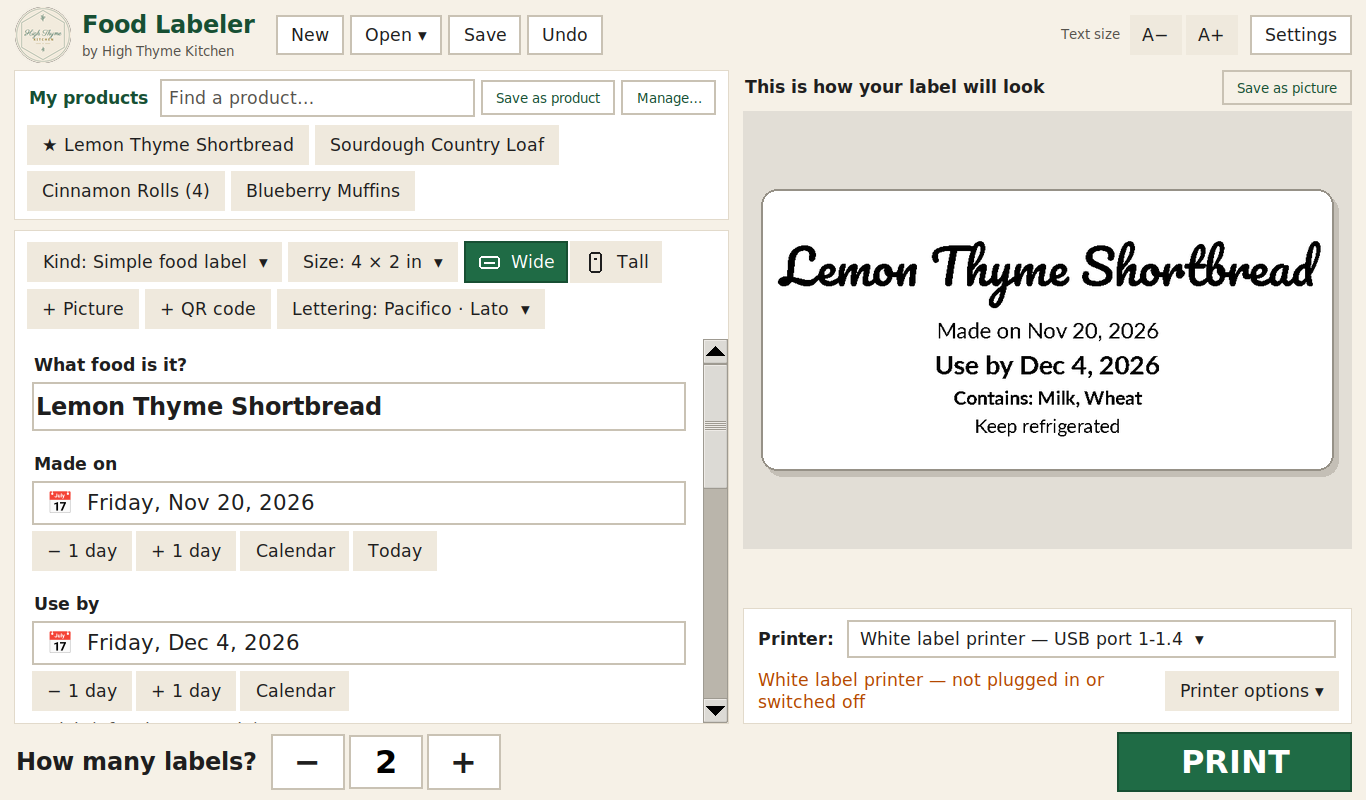
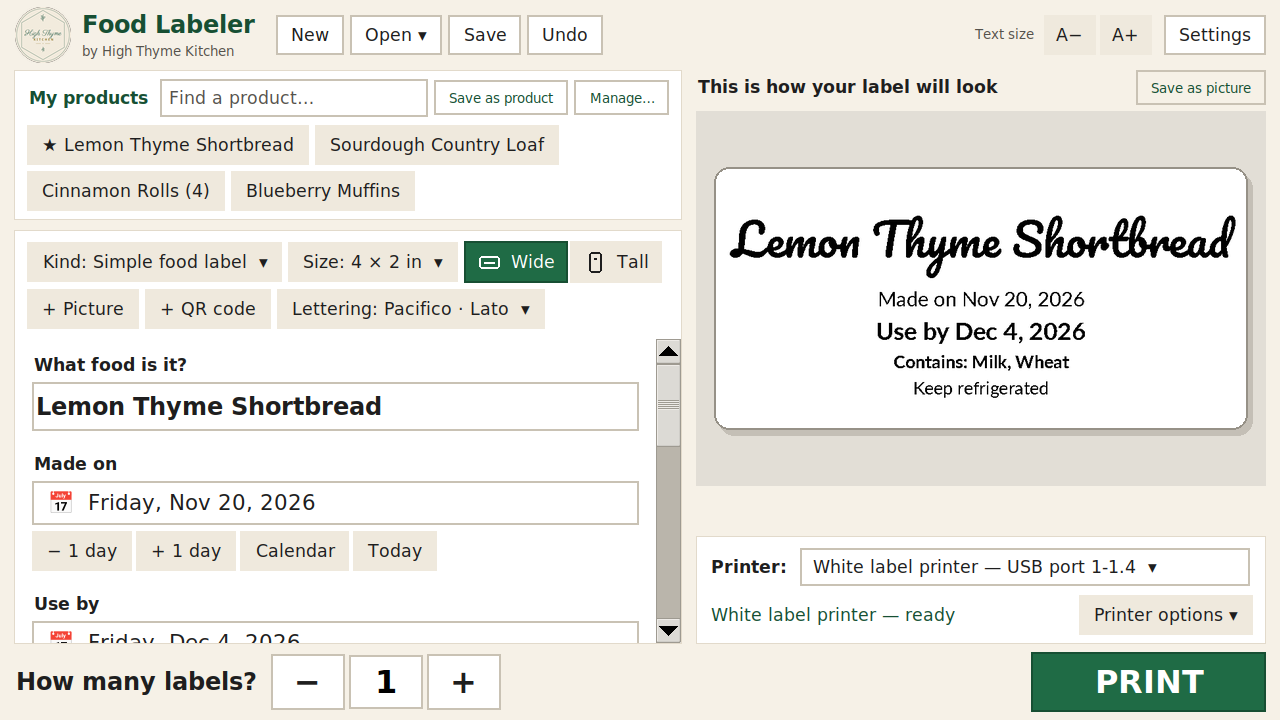
Docs and screenshots: match the current app
Regenerate every screenshot the docs and website use at 1280 x 720 with
the Normal text size, and add three: a tall label, the Manage products
window and Add a network printer. Fix wording that still described the
old main window, point to Printer options where printers are concerned,
and update the website's picture sizes and alt text.

The screenshot tool now defaults to 1280 x 720, shows its pretend printers
as ready and never reaches the internet from Get more fonts.

diff --git a/site/index.html b/site/index.html
@@ -15,9 +15,9 @@
 <meta property="og:description" content="A free program for home bakers. Type your food, press PRINT, and out comes a neat label with your state's cottage food wording, ingredients and allergens.">
 <meta property="og:url" content="https://lilfade.github.io/food-labeler/">
 <meta property="og:image" content="https://lilfade.github.io/food-labeler/img/screenshot.png">
-<meta property="og:image:width" content="1366">
-<meta property="og:image:height" content="800">
-<meta property="og:image:alt" content="Food Labeler's main window: type on the left, see the sticker on the right, and a big green PRINT button.">
+<meta property="og:image:width" content="1280">
+<meta property="og:image:height" content="720">
+<meta property="og:image:alt" content="Food Labeler's main window: your products and the form on the left, the sticker on the right, and a big green PRINT button.">
 <meta name="twitter:card" content="summary_large_image">
 <link rel="icon" type="image/png" sizes="32x32" href="img/icon-32.png">
 <link rel="apple-touch-icon" href="img/icon.png">
@@ -52,8 +52,8 @@
       <li>Open source (MIT)</li>
     </ul>
     <figure class="shot">
-      <img src="img/screenshot.png" width="1366" height="800"
-           alt="Food Labeler's main window. On the left you type the name of the food, Chicken Noodle Soup, and the dates. On the right is a picture of the sticker. At the bottom is a big green PRINT button.">
+      <img src="img/screenshot.png" width="1280" height="720"
+           alt="Food Labeler's main window. At the top left are buttons for your saved products. Below them you type the name of the food, Chicken Noodle Soup, and the dates. On the right is a picture of the sticker and your printer. At the bottom is a big green PRINT button.">
       <figcaption>Type on the left. See your sticker on the right. Press <strong>PRINT</strong>.</figcaption>
     </figure>
     <figure class="sticker-fig">
@@ -156,7 +156,7 @@
         never overwrite your changes.</li>
     </ul>
     <figure class="shot">
-      <img src="img/screenshot-cottage.png" width="1366" height="800" loading="lazy"
+      <img src="img/screenshot-cottage.png" width="1280" height="720" loading="lazy"
            alt="A cottage food label being made for a Nebraska bakery, with the label check at the top of the form and the finished sticker on the right.">
       <figcaption>A cottage food label for a Nebraska bakery.</figcaption>
     </figure>
@@ -181,12 +181,12 @@
     </ul>
     <div class="pair">
       <figure class="shot">
-        <img src="img/screenshot-fancy-name.png" width="1366" height="800" loading="lazy"
+        <img src="img/screenshot-fancy-name.png" width="1280" height="720" loading="lazy"
              alt="A label with the name of the food in fancy, flowing Pacifico lettering.">
         <figcaption>Fancy lettering for the name.</figcaption>
       </figure>
       <figure class="shot">
-        <img src="img/screenshot-picture-qr.png" width="1366" height="800" loading="lazy"
+        <img src="img/screenshot-picture-qr.png" width="1280" height="720" loading="lazy"
              alt="A label with a black and white logo on one side and a QR code on the other.">
         <figcaption>A logo and a QR code.</figcaption>
       </figure>
@@ -242,10 +242,10 @@
     <p>When you put in a new roll, Food Labeler walks you through setting it up in three
       plain steps, so the printing lands on the labels and not across the gaps.</p>
     <h3>A printer on your network</h3>
-    <p>Type its address in <strong>Add a network printer</strong> (in <strong>My printers</strong>).
+    <p>Type its address in <strong>Add a network printer</strong> (under <strong>Printer options</strong>).
       <strong>Test the connection</strong> checks it answers without printing anything.</p>
     <h3>Printer not in the list?</h3>
-    <p>Press <strong>My printer isn't in the list</strong>, then <strong>Ask for help on
+    <p>Under <strong>Printer options</strong>, press <strong>My printer isn't in the list</strong>, then <strong>Ask for help on
       GitHub</strong>. Food Labeler makes a short report about your computer and printer
       (never what is on your labels), copies it and opens a help form. Paste the report into
       the box, and we'll try to help.</p>

diff --git a/tools/screenshot.py b/tools/screenshot.py
@@ -6,12 +6,13 @@ so run it on a desktop you are not using at that moment:
 
 Uses a temporary data folder and FOOD_LABELER_DRY_RUN, so nothing is printed
 and nothing of yours is touched. Printer discovery is replaced by two pretend
-printers and "Test the connection" never connects.
+printers (shown as ready), and "Test the connection" and "Get more fonts"
+never connect.
 
 Settings, from the environment:
 
     SHOT_SCALE=0.8        text size (0.7 Small, 0.8 Normal, 1.0 Large, 1.2 Extra large)
-    SHOT_SIZE=1280x720    main window size (default 1366x800, the docs' size)
+    SHOT_SIZE=1366x800    main window size (default 1280x720, the docs' size)
     SHOT_SCREEN=1280x720  pretend the screen is this big (dialogs size themselves to it)
     SHOT_ALL=1            also walk through every other window and flow
     SHOT_STEPS=a,b        only these steps (names as below)
@@ -41,7 +42,7 @@ from food_labeler import app as appmod, known, model, printers, settings  # noqa
 OUT = Path(sys.argv[1] if len(sys.argv) > 1 else ROOT / "docs")
 OUT.mkdir(parents=True, exist_ok=True)
 SCALE = float(os.environ.get("SHOT_SCALE") or 0)
-SIZE = os.environ.get("SHOT_SIZE") or "1366x800"
+SIZE = os.environ.get("SHOT_SIZE") or "1280x720"
 SCREEN = os.environ.get("SHOT_SCREEN") or ""
 ALL = os.environ.get("SHOT_ALL") == "1"
 ONLY = [s for s in (os.environ.get("SHOT_STEPS") or "").split(",") if s]
@@ -65,6 +66,17 @@ def fake_printers():
 
 
 printers.discover = lambda *a, **k: fake_printers()
+_real_status = printers.status
+
+
+def _fake_status(p, name=""):
+    """The pretend printers are "ready" (their /dev/usb paths don't exist here)."""
+    if p is not None and p.id in ("usb:1-1.4", "usb:1-1.2"):
+        return "ready", f"{name or p.default_name()} \u2014 ready"
+    return _real_status(p, name)
+
+
+printers.status = _fake_status
 
 
 def _no_network(*a, **k):
@@ -72,6 +84,14 @@ def _no_network(*a, **k):
 
 
 printers.check_network = _no_network
+from food_labeler import fontget  # noqa: E402
+
+
+def _no_font_download(*a, **k):
+    raise fontget.FontGetError("(screenshot run: not connecting)")
+
+
+fontget.http_get = _no_font_download
 try:
     from food_labeler import btscan
     btscan.scan = lambda *a, **k: []
@@ -257,6 +277,21 @@ def too_much():
 
 
 @step
+def tall():
+    set_label("simple", food="Chicken Noodle Soup", contains="Wheat, Eggs",
+              note="Keep refrigerated", made_by="Grandma Jo")
+    app.set_orientation("tall")
+
+    def back():
+        grab("screenshot-tall.png")
+        set_label("simple", food="Chicken Noodle Soup", contains="Wheat, Eggs",
+                  note="Keep refrigerated", made_by="Grandma Jo")
+        nxt()
+    root.after(700, back)
+    return True
+
+
+@step
 def template_picker():
     from food_labeler.dialogs import TemplatePicker
     return show(TemplatePicker(root, app.doc, cfg.render_ctx()), "screenshot-templates.png",
@@ -358,7 +393,9 @@ def font_picker():
 @step
 def get_fonts():
     from food_labeler.font_dialogs import GetFontsDialog
-    return show(GetFontsDialog(root, "Dancing Script"), "screenshot-get-fonts.png")
+    d = GetFontsDialog(root, "")          # a name typed, "Find it" not pressed (no internet)
+    d.var.set("Dancing Script")
+    return show(d, "screenshot-get-fonts.png")
 
 
 @step
@@ -403,6 +440,15 @@ def roll_setup():
     from food_labeler.picture_dialogs import RollSetupDialog
     p = printers.Printer(id="usb:1-1.4", **FAKE_USB)
     return show(RollSetupDialog(root, app, p), "screenshot-roll-setup.png", 900)
+
+
+@step
+def network_printer():
+    from food_labeler.dialogs import NetworkPrinterDialog
+    # an example address from the range kept for documentation (192.0.2.x)
+    printers.add_network_printer(cfg["printers"], "192.0.2.10:9100", "tspl",
+                                 "lp610bt-compatible", "Shed printer")
+    return show(NetworkPrinterDialog(root, app), "screenshot-network-printer.png")
 
 
 @step

diff --git a/docs/guide.md b/docs/guide.md
@@ -44,8 +44,8 @@ to make an account; or email hello@highthymekitchen.com if you're stuck).
 
    Windows usually asks this only the first time you open a new download.
 6. Food Labeler opens. If it finds your printer, its name is shown next to
-   **Printer:**, above the **PRINT** button. If not, see
-   [Your printer](printer.md).
+   **Printer:**, above the **PRINT** button, with *ready* under it. If not,
+   see [Your printer](printer.md).
 
 ## Making a label
 
@@ -94,18 +94,20 @@ choose **how many** and press **PRINT**.
 - No products yet? The strip says *Save a product once and it's one click
   next time*.
 
+![Manage…: all your products, with ★ favourites first](screenshot-products.png)
+
 ## Other things you can do
 
 ![Choosing the kind of label](screenshot-templates.png)
 
-Above the form, a row of buttons shows how the label is set up. Press one to
+The buttons above the form show how the label is set up. Press one to
 change it:
 
-- **Kind: …**: *Simple food label*, *Package label* (with
+- **Kind: … ▾**: *Simple food label*, *Package label* (with
   ingredients and your kitchen's name and address), *Date sticker*,
   *Free text*, *Picture label* (one big picture), or *Cottage food label*
   (for home bakers, see [below](#for-home-bakers-cottage-food-labels)).
-- **Size: …**: pick the size of the labels in your printer.
+- **Size: … ▾**: pick the size of the labels in your printer.
 - **Wide** or **Tall**, for every kind of label (not on round
   ones). Labels on a 4 × 2 or 3 × 2 roll are wide unless you pick *Tall*:
   then the label is laid out 2 inches wide and 4 inches tall and printed
@@ -113,7 +115,9 @@ change it:
   The picture on the right always shows the label the way you read it; when
   it prints sideways, a small arrow shows which edge comes out of the
   printer first. The choice is saved in the label file.
-- **+ Picture**, **+ QR code** and **Lettering** add the extras below. Once
+
+  ![A tall label on a 4 × 2 roll, with the arrow showing which edge comes out first](screenshot-tall.png)
+- **+ Picture**, **+ QR code** and **Lettering ▾** add the extras below. Once
   a label has a picture or a QR code, its button says so (*Picture: Our
   logo*) and **✕ Remove** next to it takes it off (**Undo** puts it back).
 - **Save** keeps the label so you can print it again. **Open ▾** lists the
@@ -131,7 +135,7 @@ change it:
   printers: *Look for printers again*, *My printers…*, *Print settings…*,
   *New roll? Set it up…*, *Add a network printer…* and *My printer isn't
   in the list…*. See [Your printer](printer.md).
-- **Ctrl+P** asks how many and prints, like the **PRINT** button.
+- **Ctrl+P** prints too: it first asks how many.
 - Your work is kept safe automatically, even if the computer switches off.
 - Your saved labels are in `Documents\My Food Labels` (Linux:
   `~/Documents/My Food Labels`). Updates to Food Labeler never change them.
@@ -140,7 +144,7 @@ change it:
 
 ![A label with a fancy name in Pacifico](screenshot-fancy-name.png)
 
-- **Lettering** (above the form) lets you pick the kind of
+- **Lettering ▾** (above the form) lets you pick the kind of
   letters on your label: one for the **name of the food** and one for
   **everything else**. Each choice is shown in its own lettering, so you can
   see what you get. Food Labeler remembers your choice for your next label.
@@ -233,11 +237,11 @@ This is what that label prints (4 × 2 inch):
 3. **Build from My ingredients…** lets you pick ingredients in order,
    heaviest first. Each one remembers what's in it ("Butter (cream, salt)")
    and its allergens, so **Contains** fills itself in. The starter list is
-   only an example: check each ingredient against your own package and
-   press **Change…** to match it.
+   only an example (marked ⚠): check each ingredient against your own
+   package and press **Change…** under the list to match it.
 
    ![Building the ingredient list](screenshot-ingredients.png)
-4. **Save as product** (under *My products*) keeps the product, so next
+4. **Save as product** (in the *My products* box) keeps the product, so next
    time one click on its button fills the whole label in (see
    [My products](#my-products-one-click)).
 5. The **Label check** at the top of the form says in green when everything

diff --git a/docs/printer.md b/docs/printer.md
@@ -30,10 +30,15 @@ If something prints wrong, see [Something not right?](troubleshooting.md).
 
 - The printer you are using is shown next to **Printer:**, above the
   **PRINT** button. If you have more than one, click it to choose.
+- The line under it says how the printer is: *ready*, *not plugged in or
+  switched off*, or what to do. Click it for help.
 - Everything else is in **Printer options ▾** next to it:
-- **My printers…** lets you give printers names like *White label printer*.
-  **Which one is it?** prints a tiny label saying which printer it is.
-- **Look for printers again** if you just plugged one in.
+  - **Look for printers again** if you just plugged one in.
+  - **My printers…** lets you give printers names like *White label
+    printer*. **Which one is it?** prints a tiny label saying which printer
+    it is. *Type* and *Sharpness* are there too.
+  - **Print settings…** and **New roll? Set it up…** (below).
+  - **Add a network printer…** and **My printer isn't in the list…**.
 
 ## Print settings
 
@@ -110,13 +115,16 @@ are *alpha — not tested yet* until someone has printed on them that way.
 3. Type the address and press **Test the connection**. This only checks that
    something answers there, within a few seconds; it never prints anything.
 4. Say what kind of printer it is (*Label printer like the LP610BT*, *Zebra
-   label printer*, or *Another label printer*), give it a name if you like,
-   and press **Add this printer**. It is chosen as your printer straight
-   away.
+   label printer*, or *Another label printer (TSPL)*), give it a name if you
+   like, and press **Add this printer**. It is chosen as your printer
+   straight away.
 
-Your network printers are listed in the same window, with their address and
-a **Remove** button. Print settings, **New roll? Set it up**, the darkness
-test, **Feed one blank label** and **Which one is it?** all work with them.
+![Add a network printer, with one network printer already added](screenshot-network-printer.png)
+
+Your network printers are listed in the same window, with their address,
+**Use this one** and a **Remove** button. Print settings, **New roll? Set it
+up**, the darkness test, **Feed one blank label** and **Which one is it?**
+all work with them.
 Food Labeler never looks for printers on the network by itself; it only
 connects when you print (or press **Test the connection**). If printing says
 the printer isn't answering at its address, check the printer and its print

diff --git a/CHANGELOG.md b/CHANGELOG.md
@@ -46,8 +46,9 @@ real printers.
 
 - **Network printers.** A label printer on your network (with its own
   network socket, through a print server, or behind a small network
-  bridge) is now easy to add: **My printers → Add a network printer…**
-  (also in *My printer isn't in the list* and *Set up my printer*). Type
+  bridge) is now easy to add: **Printer options ▾ → Add a network
+  printer…** (also in *My printers*, *My printer isn't in the list* and
+  *Set up my printer*). Type
   its address, like `192.168.1.50:9100`, and press **Test the connection**:
   it only checks that something answers and never prints. Say what kind
   of printer it is and press **Add this printer**; it becomes your printer
@@ -59,8 +60,8 @@ real printers.
   Set it up**, the darkness test, **Feed one blank label** and **Which one
   is it?**. Before, adding one under Advanced didn't choose it, and the
   Advanced window showed an empty box afterwards; it now lists them.
-- **Wide or tall.** A new **Which way?** choice (next to the label size)
-  lays any label out *Wide* or *Tall* (not round ones). A tall label on a
+- **Wide or tall.** New **Wide** and **Tall** buttons (next to the label
+  size) lay any label out wide or tall (not round ones). A tall label on a
   4 × 2 roll is 2 inches wide and 4 inches tall and prints sideways; a
   4 × 6 label can be wide (6 × 4). The preview shows it the way you read
   it, with a small arrow at the edge that comes out of the printer first.
@@ -104,8 +105,8 @@ real printers.
 - **Print over Bluetooth.** LP610BT-type printers with Bluetooth can now
   print without the USB cable, on Windows and Linux. Pair the printer once
   in the computer's own Bluetooth settings (the PIN is often 0000 or 1234),
-  then press **Look for printers again**. It shows up as, for example,
-  *… — Bluetooth (…3F:A2)*. Food Labeler never pairs by itself. See
+  then press **Printer options ▾ → Look for printers again**. It shows up
+  as, for example, *… — Bluetooth (…3F:A2)*. Food Labeler never pairs by itself. See
   [Bluetooth printers](docs/printer.md#bluetooth-printers-alpha).
 - **Alpha — not tested yet.** Printing over Bluetooth hasn't been tested on
   paper. Bluetooth printers have *(alpha — not tested yet)* after their name,

diff --git a/CONTRIBUTING.md b/CONTRIBUTING.md
@@ -58,7 +58,8 @@ Labels*) or GitHub leaves them off.
 - [docs/fonts.md](docs/fonts.md): bundled fonts, their sources and fonts
   users add.
 - [docs/bluetooth-and-phones.md](docs/bluetooth-and-phones.md): notes on
-  printing over Bluetooth and on a phone version (research, not built yet).
+  printing over Bluetooth (built in 1.5.0, alpha) and on a phone version
+  (research, not built yet).
 - [docs/samples](docs/samples): sample printouts of every label kind and size.
 
 ## Website
@@ -142,7 +143,7 @@ so pair first:
    & devices → Add device**.
 2. Start Food Labeler (or, to see the job without printing,
    `FOOD_LABELER_DRY_RUN=/tmp/jobs .venv/bin/python -m food_labeler`) and
-   press **Look for printers again**. The printer appears as
+   press **Printer options ▾ → Look for printers again**. The printer appears as
    *… — Bluetooth (…3F:A2)* (Windows: *… — Bluetooth COM5 (…3F:A2)*), marked
    *(alpha — not tested yet)*.
 3. Put a roll in, pick that printer and print **one** label (a test label
@@ -168,9 +169,16 @@ To try printing without a printer:
 FOOD_LABELER_DRY_RUN=/tmp/jobs .venv/bin/python -m food_labeler
 ```
 
-Screenshots in `docs/` come from `python tools/screenshot.py docs`. It
-opens the real window with example data for about half a minute, so only run
-it on a desktop nobody is using at that moment.
+Screenshots in `docs/` come from
+`SHOT_SCREEN=1280x720 python tools/screenshot.py docs`: the main window at
+1280 × 720 with the *Normal* text size, example data and two pretend
+printers. It opens the real window for about half a minute, so only
+run it on a desktop nobody is using at that moment. It never prints or
+connects to anything. It also saves `screenshot-usb.png` and
+`screenshot-report.png`, which show the USB devices of the computer it ran
+on: they are in `.gitignore` and must never be committed. If a new
+screenshot is used on the website, add it to the copy step in
+`.github/workflows/pages.yml`.
 
 `tools/render_samples.py` redraws `docs/samples/*.png` (the exact printer
 bitmaps for every template and size, the fonts sheet, `dpi-203-vs-300.png`,

diff --git a/docs/ARCHITECTURE.md b/docs/ARCHITECTURE.md
@@ -373,7 +373,7 @@ which devices are paired and never pairs or connects to look.
 ### Network printers
 
 A network printer is a printer the person added with *Add a network
-printer…* (My printers, My printer isn't in the list, Set up my printer;
+printer…* (Printer options, My printers, My printer isn't in the list, Set up my printer;
 Advanced lists them and opens the same window): `printers[<id>]` in
 settings.json with `"manual": true, "method": "network", "target":
 "host:port", "kind"` and the kind of printer they said it is (`"model"`, a

diff --git a/docs/fonts.md b/docs/fonts.md
@@ -1,7 +1,7 @@
 # Fonts
 
 Food Labeler prints in **DejaVu Sans** unless you choose other lettering
-(*Lettering* above the form). Every label has two choices:
+(**Lettering ▾** above the form). Every label has two choices:
 
 - **Name of the food** (on a date sticker: the lot number; on free text: your
   words) — any font.
